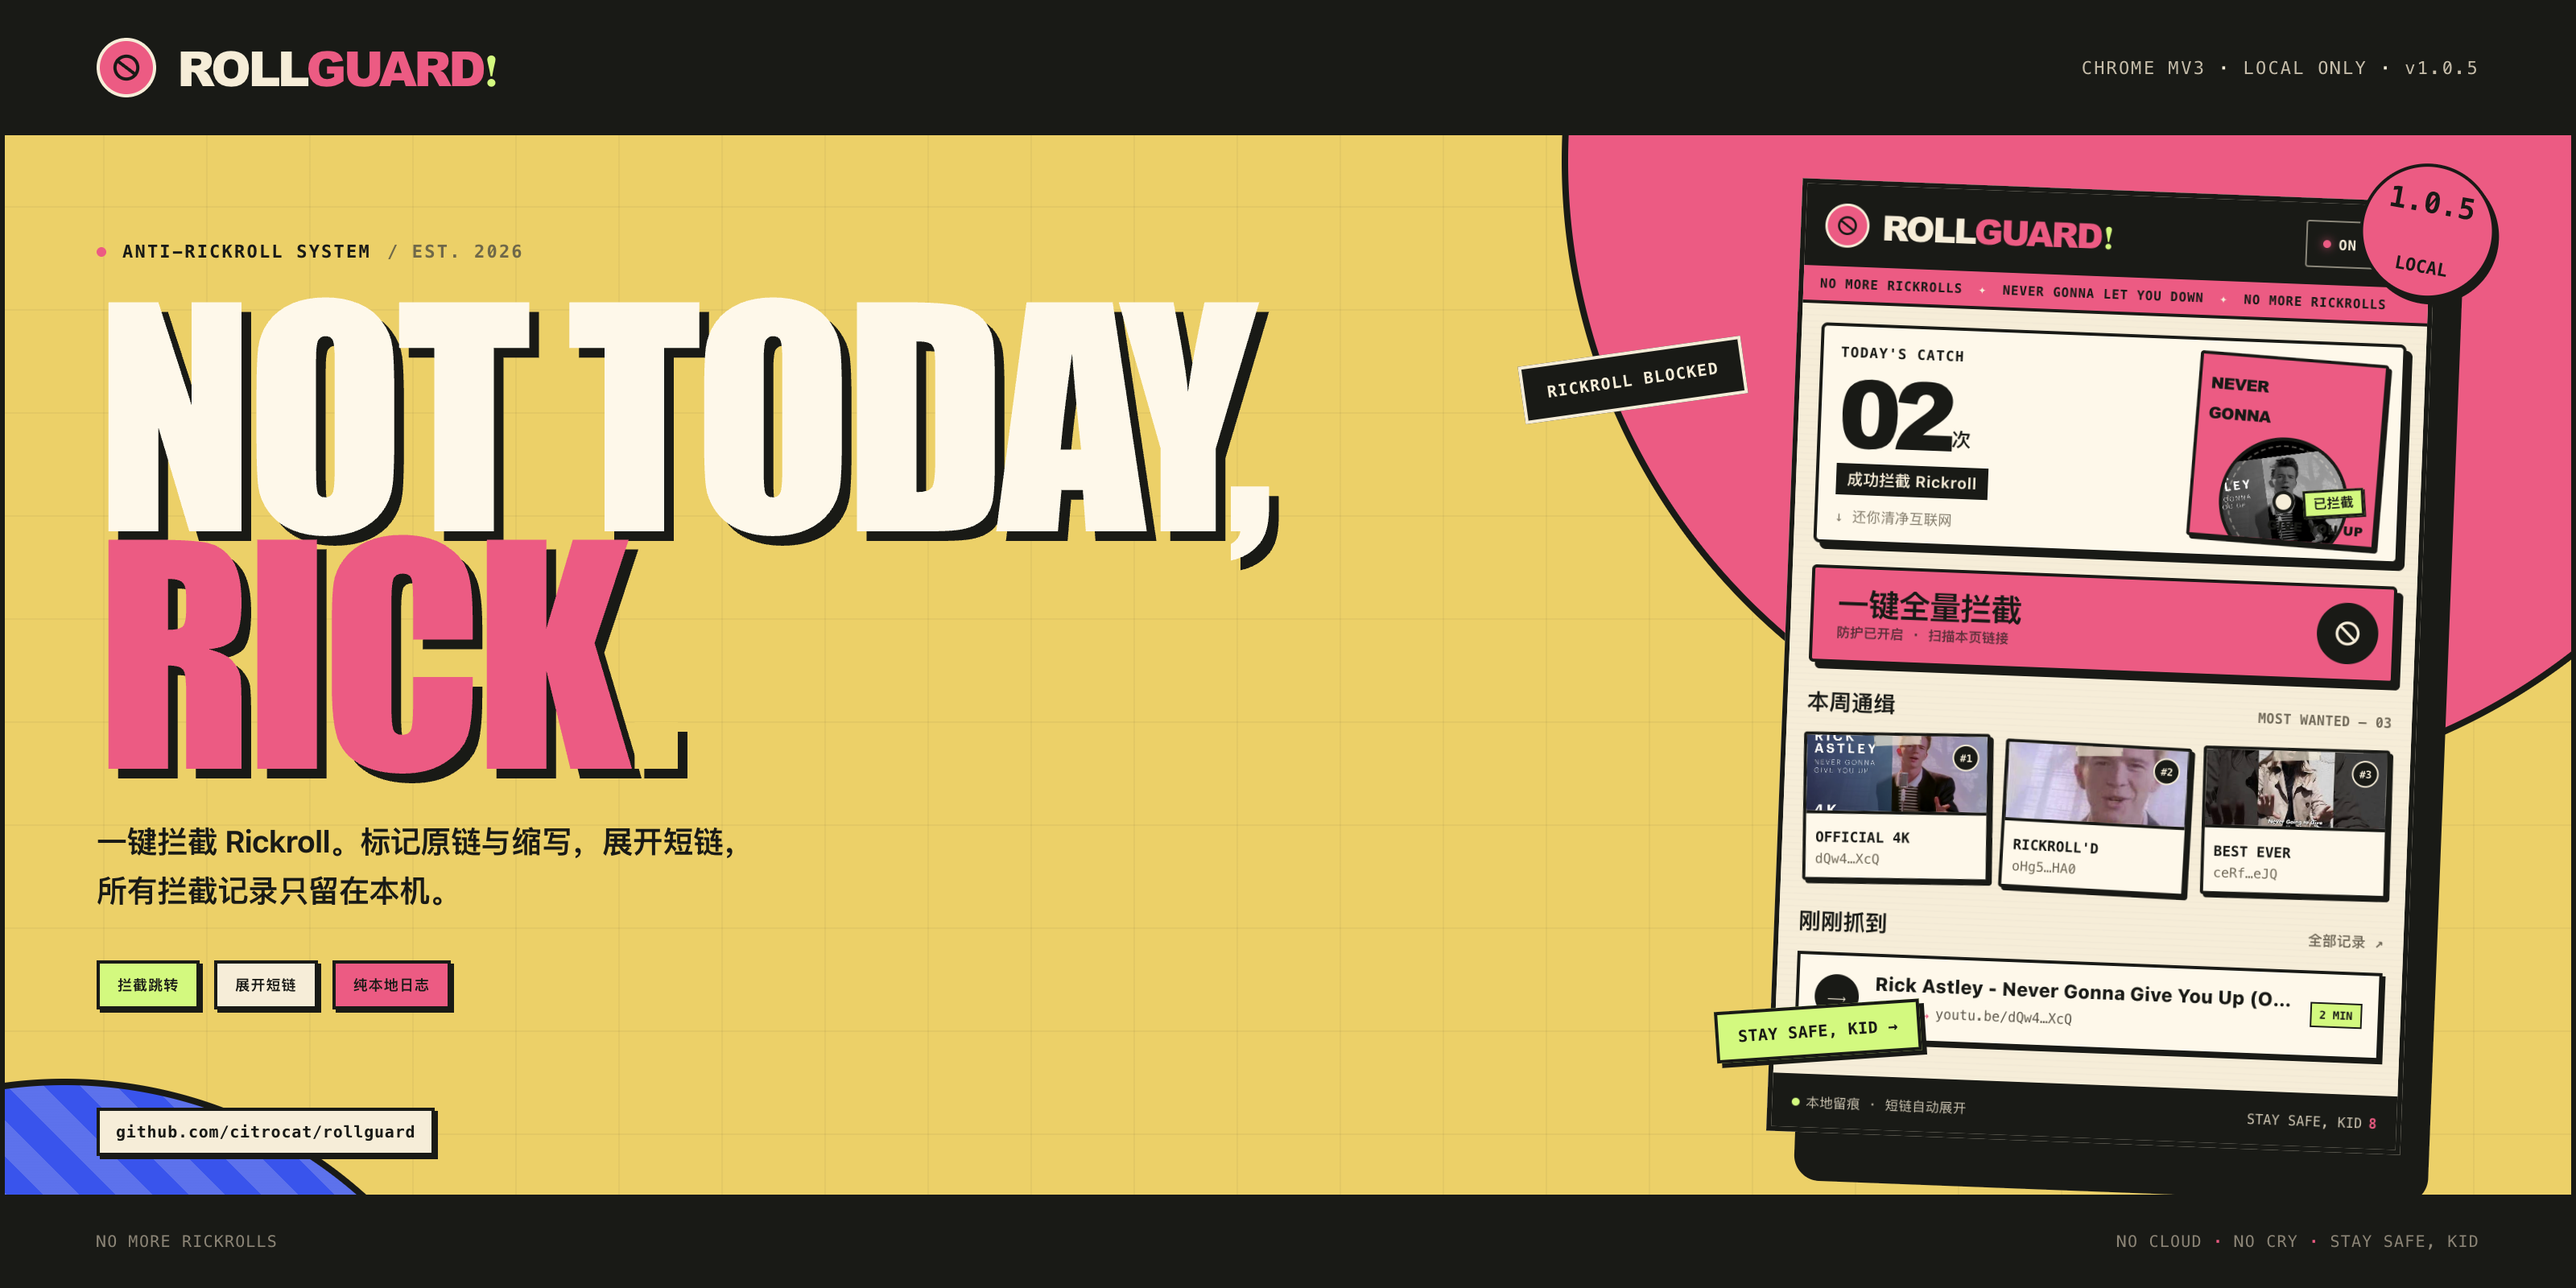
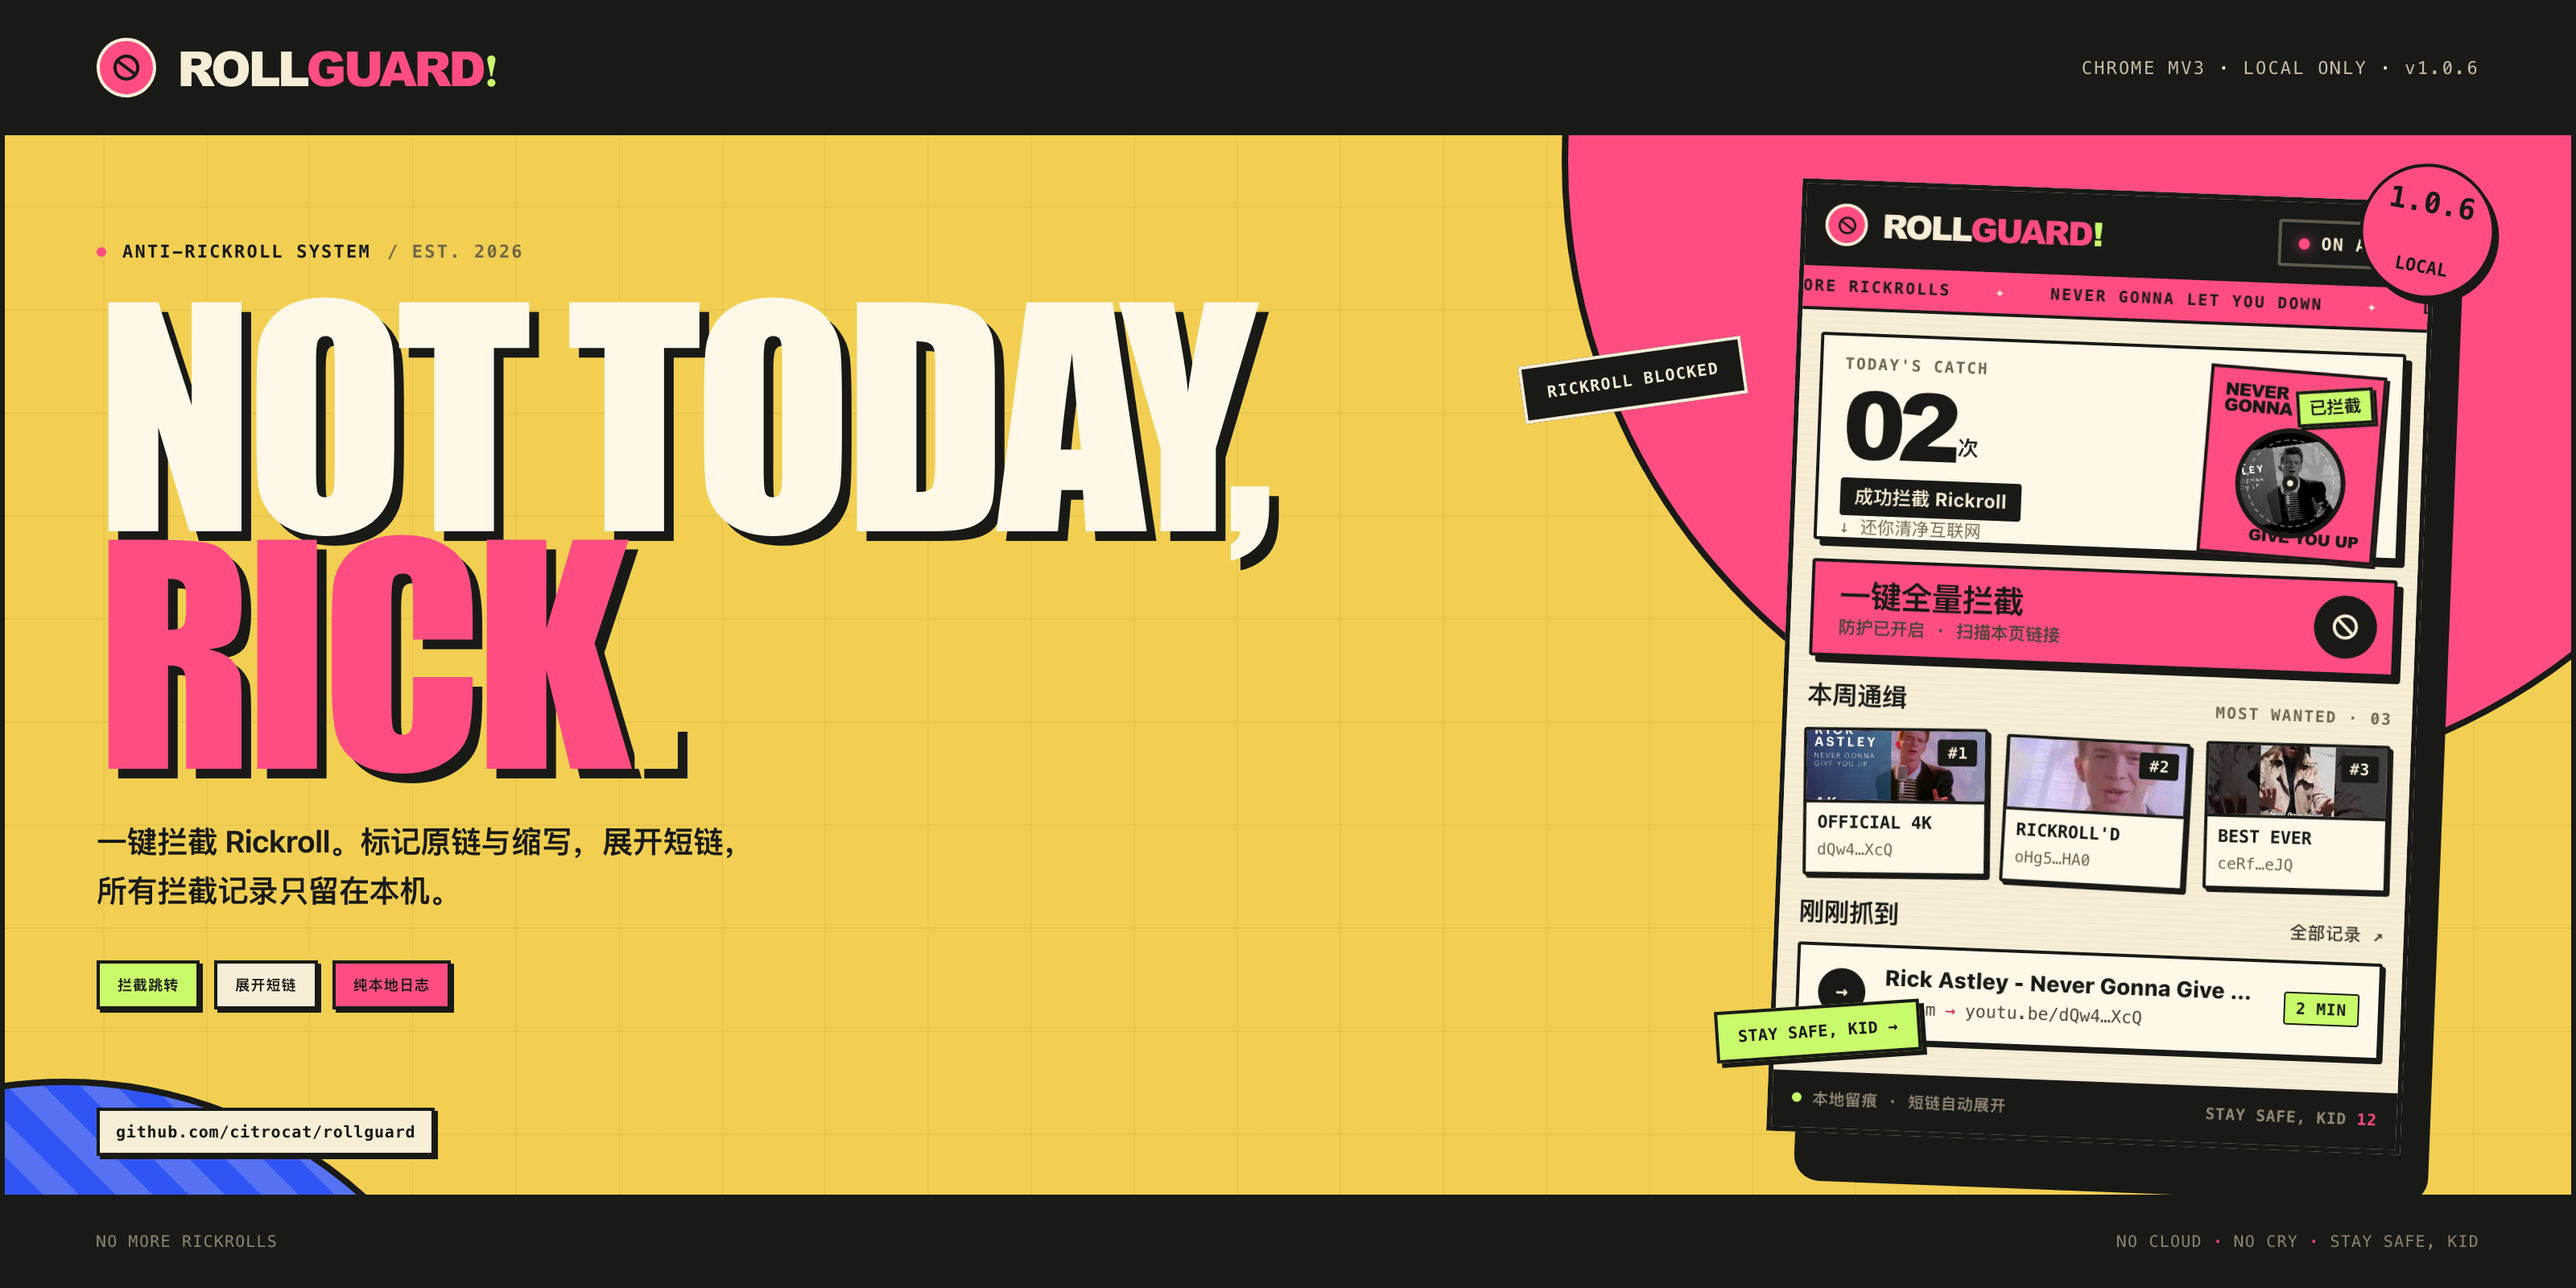
chore(release): 发布 1.0.6 的浮层修复与统一界面
- 将 manifest 版本升到 1.0.6，并同步 README 的下载徽章和发版示例命令，原因是版本号以 manifest 为唯一来源，公开说明必须和 tag 保持一致。
- 新增 1.0.6 release note，说明浮层随链接滚动、链接删除后同步清理、短链放行保留打开方式、新标签页短链拦截和 RIOT 2 统一界面，原因是发布页需要独立讲清这一版改了什么且没有新增权限。
- 用 RIOT 2 新弹窗截图重新生成 banner 并标注 1.0.6，原因是 README 首图必须展示与发布包一致的界面和版本。

Changed region(s): [[0.6875, 0.1562, 0.9375, 0.8125], [0.8438, 0.8438, 0.9375, 0.875], [0.6875, 0.8438, 0.7812, 0.875]]

diff --git a/.github/release-notes/1.0.6.md b/.github/release-notes/1.0.6.md
@@ -1,0 +1,20 @@
+# 滑得再快，警报也跟得上。
+
+RollGuard 1.0.6 修复了快速滑动时网页标记和链接脱开的问题，补上两处短链拦截缺口，并把弹窗、拦截页和记录页统一到同一套 RIOT 2 设计规范。
+
+## What changed
+
+- **浮层跟住链接**：Split Slab 侧栏和 Blackout 暗幕改为挂在被标记的链接里面，由浏览器负责滚动和裁切。快速滑动、横向轮播、内层滚动面板里都不再脱位，也不会盖到吸顶栏上。Google `h3 + cite` 视频结果仍使用独立的直立标签。
+- **链接删除后同步清理**：页面重新渲染、删掉已标记的链接时，浮层和工具栏角标计数一起更新。
+- **短链放行保留打开方式**：安全短链展开后按原链接的方式打开，原本开新标签页的链接不再替换当前页。
+- **新标签页短链也会拦截**：用 Cmd / Ctrl / 中键打开的短链，经服务端重定向落到已知样本时，会在页面提交时改道到拦截页，并记下原始短链和来源页。
+- **RIOT 2 统一界面**：三张页面共用 `extension/shared/riot.css` 里的一套颜色、字号、描边和组件；最小字号提到 10px，按钮、记录行、跑马灯和 toast 只有一种写法。
+- **检测规则不变**：已知样本和标题判断与 1.0.5 相同。
+
+## Update
+
+下载并解压 `rollguard-1.0.6.zip`，在 `chrome://extensions` 中刷新或重新加载未打包扩展即可。
+
+## Privacy
+
+没有新增远端服务、权限或数据字段。新标签页短链拦截使用已有的 `webNavigation` 与 `tabs` 权限；所有拦截记录仍然只保存在本机。

diff --git a/README.md b/README.md
@@ -6,7 +6,7 @@
 
 <p>
   <a href="https://github.com/citrocat/rollguard/releases/latest">
-    <img src="https://img.shields.io/badge/Download-v1.0.5-ff4d82?style=for-the-badge&amp;logo=googlechrome&amp;logoColor=191a16" alt="Download RollGuard 1.0.5" />
+    <img src="https://img.shields.io/badge/Download-v1.0.6-ff4d82?style=for-the-badge&amp;logo=googlechrome&amp;logoColor=191a16" alt="Download RollGuard 1.0.6" />
   </a>
   <a href="#quick-start">
     <img src="https://img.shields.io/badge/Install-Load_unpacked-f2cf52?style=for-the-badge&amp;logo=googlechrome&amp;logoColor=191a16" alt="Load unpacked" />
@@ -220,9 +220,9 @@ bash scripts/package-release.sh
 # 3. 提交、打 tag、推送
 git add .
 git commit
-git tag -a v1.0.5 -m "RollGuard 1.0.5"
+git tag -a v1.0.6 -m "RollGuard 1.0.6"
 git push origin main
-git push origin v1.0.5
+git push origin v1.0.6
 ```
 
 GitHub Actions 会校验 tag 与 manifest 版本一致，测试、构建、生成：
